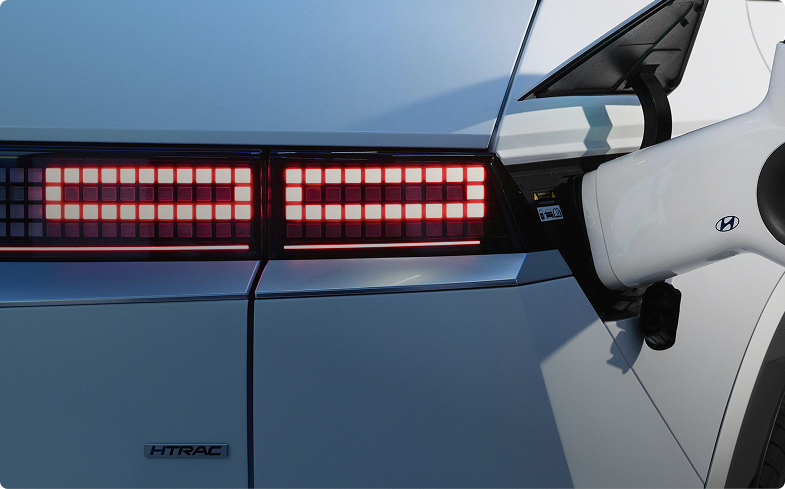
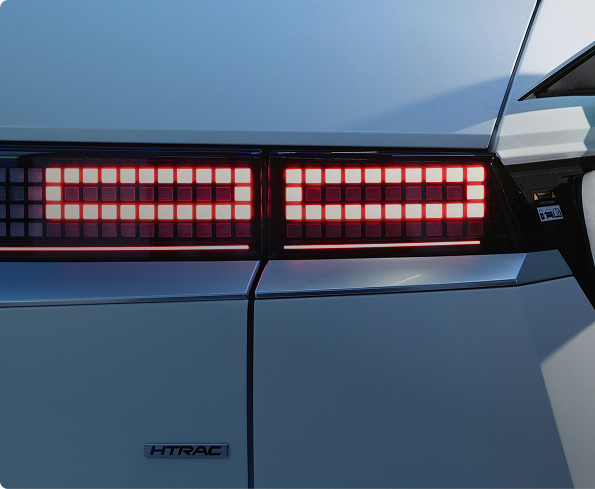
fixed card slider after hero

diff --git a/components/ui/card-slider.tsx b/components/ui/card-slider.tsx
@@ -14,8 +14,8 @@ export interface CardSliderProps {
     slides: CardSlideData[];
     className?: string;
     slideClassName?: string;
-    /** Number of slides visible per view on desktop. Default: 2 */
-    slidesPerView?: number;
+    /** Number of slides visible per view on desktop, or 'auto' to use exact slide width. Default: 2 */
+    slidesPerView?: number | 'auto';
     /** Gap between slides in px. Default: 20 */
     gap?: number;
     showArrows?: boolean;
@@ -36,7 +36,7 @@ export function CardSlider({
     const [emblaRef, emblaApi] = useEmblaCarousel({
         loop,
         align: 'start',
-        slidesToScroll: slidesPerView,
+        slidesToScroll: slidesPerView === 'auto' ? 1 : slidesPerView,
         containScroll: 'trimSnaps',
     });
 
@@ -75,48 +75,51 @@ export function CardSlider({
     }, [emblaApi, onSelect]);
 
     // Calculate basis based on slidesPerView and gap
-    const basisStyle = `calc((100% - ${(slidesPerView - 1) * gap}px) / ${slidesPerView})`;
+    const basisStyle =
+        slidesPerView === 'auto'
+            ? 'auto'
+            : `calc((100% - ${(typeof slidesPerView === 'number' ? slidesPerView - 1 : 0) * gap}px) / ${slidesPerView})`;
 
     return (
-        <div className={cn('relative', className)}>
-            <div
-                className='overflow-visible [clip-path:inset(-100vh_-100vw_-100vh_0)]'
-                ref={emblaRef}>
-                <div className='flex' style={{ marginLeft: `-${gap}px` }}>
-                    {slides.map(slide => (
-                        <div
-                            key={slide.id}
-                            className={cn(
-                                'min-w-0 shrink-0 grow-0 relative',
-                                slideClassName
-                            )}
-                            style={{
-                                flexBasis: basisStyle,
-                                paddingLeft: `${gap}px`,
-                            }}>
-                            {slide.content}
-                        </div>
-                    ))}
+        <div className={cn('', className)}>
+            {/* Wrapper for viewport + arrows so arrows center on cards only */}
+            <div className='relative'>
+                <div
+                    className='overflow-visible [clip-path:inset(-100vh_-100vw_-100vh_0)]'
+                    ref={emblaRef}>
+                    <div className='flex' style={{ marginLeft: `-${gap}px` }}>
+                        {slides.map(slide => (
+                            <div
+                                key={slide.id}
+                                className={cn('', slideClassName)}
+                                style={{
+                                    flexBasis: basisStyle,
+                                    paddingLeft: `${gap}px`,
+                                }}>
+                                {slide.content}
+                            </div>
+                        ))}
+                    </div>
                 </div>
-            </div>
 
-            {/* Arrows — positioned relative to the slider viewport */}
-            {showArrows && (
-                <>
-                    <button
-                        className='absolute left-0 md:left-0 top-1/2 -translate-y-1/2 z-20 flex h-[48px] w-[48px] items-center justify-center rounded-[4px] bg-background/10 hover:bg-background/30 backdrop-blur-md transition-all shadow-btn text-dark'
-                        onClick={scrollPrev}
-                        aria-label='Previous slide'>
-                        <ArrowLeftIcon />
-                    </button>
-                    <button
-                        className='absolute    right-0 top-1/2 -translate-y-1/2 z-20 flex h-[48px] w-[48px] items-center justify-center rounded-[4px] bg-background/10 hover:bg-background/30 backdrop-blur-md transition-all shadow-btn text-dark'
-                        onClick={scrollNext}
-                        aria-label='Next slide'>
-                        <ArrowRightIcon />
-                    </button>
-                </>
-            )}
+                {/* Arrows — centered vertically on the card area */}
+                {showArrows && (
+                    <>
+                        <button
+                            className='absolute left-0 top-1/2 -translate-y-1/2 z-20 flex h-[48px] w-[48px] items-center justify-center rounded-[4px] bg-background/10 hover:bg-background/30 backdrop-blur-md transition-all shadow-btn text-dark'
+                            onClick={scrollPrev}
+                            aria-label='Previous slide'>
+                            <ArrowLeftIcon />
+                        </button>
+                        <button
+                            className='absolute right-0 top-1/2 -translate-y-1/2 z-20 flex h-[48px] w-[48px] items-center justify-center rounded-[4px] bg-background/10 hover:bg-background/30 backdrop-blur-md transition-all shadow-btn text-dark'
+                            onClick={scrollNext}
+                            aria-label='Next slide'>
+                            <ArrowRightIcon />
+                        </button>
+                    </>
+                )}
+            </div>
 
             {/* Dots — below the slider */}
             {showDots && (
@@ -125,7 +128,7 @@ export function CardSlider({
                         <button
                             key={index}
                             className={cn(
-                                'h-[10px] w-[10px] rounded-full transition-all duration-300',
+                                'h-[16px] w-[16px] rounded-full transition-all duration-300',
                                 index === selectedIndex
                                     ? 'bg-dark scale-110'
                                     : 'bg-gray hover:bg-dark/60'

diff --git a/components/home/built-for.tsx b/components/home/built-for.tsx
@@ -1,7 +1,7 @@
 import { FadeUp } from '@/components/ui/fade-up';
 import { CardSliderWrapper } from './built-for-slider';
 
-export interface BuiltForCardData {
+export interface SlidesCardData {
     id: string;
     image: string;
     title: string;
@@ -9,7 +9,7 @@ export interface BuiltForCardData {
     cta: { label: string; href: string };
 }
 
-const builtForCards: BuiltForCardData[] = [
+const slidesCardData: SlidesCardData[] = [
     {
         id: 'drivers',
         image: '/assets/images/car1.png',
@@ -27,27 +27,27 @@ const builtForCards: BuiltForCardData[] = [
         cta: { label: 'Become a Host', href: '/host' },
     },
     {
-        id: 'partners',
-        image: '/assets/images/car-4.png',
-        title: 'For Partners',
+        id: 'drivers-1',
+        image: '/assets/images/car1.png',
+        title: 'For Drivers',
         description:
-            'Partner with WattUp and grow your business with premium EV infrastructure.',
-        cta: { label: 'Learn More', href: '/partners' },
+            'Find nearby charging stations, plug in, and get back on the road faster.',
+        cta: { label: 'Find Charging Locations', href: '/find-charger' },
     },
     {
-        id: 'fleets',
-        image: '/assets/images/car-5.png',
-        title: 'For Fleets',
+        id: 'hosts-1',
+        image: '/assets/images/car-2.png',
+        title: 'For Hosts',
         description:
-            'Reliable, high-speed charging solutions designed for fleet operations.',
-        cta: { label: 'Fleet Solutions', href: '/fleets' },
+            'Install EV charging and attract high-value customers, tenants, and visitors.',
+        cta: { label: 'Become a Host', href: '/host' },
     },
 ];
 
 export function BuiltFor() {
     return (
-        <section className='w-full common-section-padding bg-background overflow-hidden relative'>
-            <div className='container'>
+        <section className='w-full max-w-[1440px] mx-auto overflow-x-hidden common-section-padding bg-background overflow-hidden relative'>
+            <div className='container mx-auto'>
                 <FadeUp>
                     <h2 className='headline-dark mb-10'>
                         Built for Drivers and Property Owners
@@ -55,7 +55,7 @@ export function BuiltFor() {
                 </FadeUp>
 
                 <FadeUp delay={0.1}>
-                    <CardSliderWrapper cards={builtForCards} />
+                    <CardSliderWrapper cards={slidesCardData} />
                 </FadeUp>
             </div>
         </section>

diff --git a/components/home/built-for-slider.tsx b/components/home/built-for-slider.tsx
@@ -3,40 +3,39 @@
 import { CardSlider } from '@/components/ui/card-slider';
 import Image from 'next/image';
 import Link from 'next/link';
-import type { BuiltForCardData } from './built-for';
+import type { SlidesCardData } from './built-for';
 
-function BuiltForCard({ card }: { card: BuiltForCardData }) {
+function SlidesCard({ card }: { card: SlidesCardData }) {
     return (
-        <div className='relative group rounded-[8px] overflow-hidden h-[400px] md:h-[489px] flex flex-col items-start justify-end gap-[10px] p-[32px] md:pt-[276px]'>
+        <div className='relative group rounded-[8px] overflow-hidden w-[785px] h-[489px] flex flex-col items-start justify-end gap-[10px] p-[32px] pt-[276px]'>
             <Image
                 src={card.image}
                 alt={card.title}
                 fill
-                className='object-cover transition-transform duration-700 group-hover:scale-105 z-0'
-                sizes='(max-width: 768px) 100vw, 50vw'
+                className='object-cover  transition-transform duration-700 z-0'
             />
             {/* Gradient overlay for text readability */}
-            <div className='absolute inset-0 bg-linear-to-t from-black/80 via-black/20 to-transparent pointer-events-none z-10' />
+            <div className='absolute inset-0 bg-linear-to-t from-black/10 via-black/10 to-transparent pointer-events-none z-10' />
 
-            <h3 className='relative z-20 text-[32px] font-semibold tracking-[-0.03em] leading-[110%] text-white'>
+            <h3 className='relative z-20 headline-4 text-white'>
                 {card.title}
             </h3>
-            <p className='relative z-20 text-white/90 text-[16px] leading-[150%] max-w-md'>
+            <p className='relative z-20 text-white/90 text-[20px] leading-[130%] max-w-[572px] tracking-[-3%]'>
                 {card.description}
             </p>
             <Link
                 href={card.cta.href}
-                className='relative z-20 inline-flex px-[16px] py-[10px] bg-[#0066FF] hover:bg-[#0052cc] text-white rounded-[4px] font-medium text-[14px] shadow-btn transition-transform hover:-translate-y-0.5 mt-1'>
+                className='relative z-20 inline-flex px-[24px] py-[12px] bg-primary hover:bg-primary-hover text-white rounded-[8px] font-medium text-[16px] shadow-btn transition-transform hover:-translate-y-0.5 mt-2 leading-[130%] font-bold'>
                 {card.cta.label}
             </Link>
         </div>
     );
 }
 
-export function CardSliderWrapper({ cards }: { cards: BuiltForCardData[] }) {
+export function CardSliderWrapper({ cards }: { cards: SlidesCardData[] }) {
     const slides = cards.map(card => ({
         id: card.id,
-        content: <BuiltForCard card={card} />,
+        content: <SlidesCard card={card} />,
     }));
 
     return (

diff --git a/app/globals.css b/app/globals.css
@@ -196,13 +196,17 @@ body {
 @utility container {
     max-width: var(--container-max);
     margin-inline: auto;
-    padding-inline: 1.5rem;
 }
 
 @layer utilities {
     .headline {
         @apply text-[48px] font-semibold tracking-[-3%] leading-[110%];
     }
+
+    .headline-4 {
+        @apply text-[36px] font-semibold tracking-[-3%] leading-[110%];
+    }
+
     .headline-white {
         @apply text-[48px] font-semibold tracking-[-3%] leading-[110%] text-white;
     }

diff --git a/app/layout.tsx b/app/layout.tsx
@@ -23,7 +23,7 @@ export default function RootLayout({
     return (
         <html lang='en' className={cn('font-sans', geist.variable)}>
             <body
-                className={`${plusJakartaSans.variable} antialiased  mx-auto`}>
+                className={`${plusJakartaSans.variable} antialiased  mx-auto `}>
                 <div className='flex min-h-screen w-full flex-col bg-background selection:bg-primary/20 mx-auto'>
                     {children}
                 </div>

diff --git a/components/ui/reusable-slider.tsx b/components/ui/reusable-slider.tsx
@@ -102,7 +102,7 @@ export function ReusableSlider({
                         <button
                             key={index}
                             className={cn(
-                                'h-[10px] w-[10px] rounded-full transition-all duration-300',
+                                'h-[16px] w-[16px] rounded-full transition-all duration-300',
                                 index === selectedIndex
                                     ? 'bg-[#393939] scale-110 shadow-[0_0_0_1px_rgba(255,255,255,0.4)]'
                                     : 'bg-[#2d2d2d]/40 hover:bg-[#2d2d2d]/60 shadow-[0_0_0_1px_rgba(255,255,255,0.2)]'